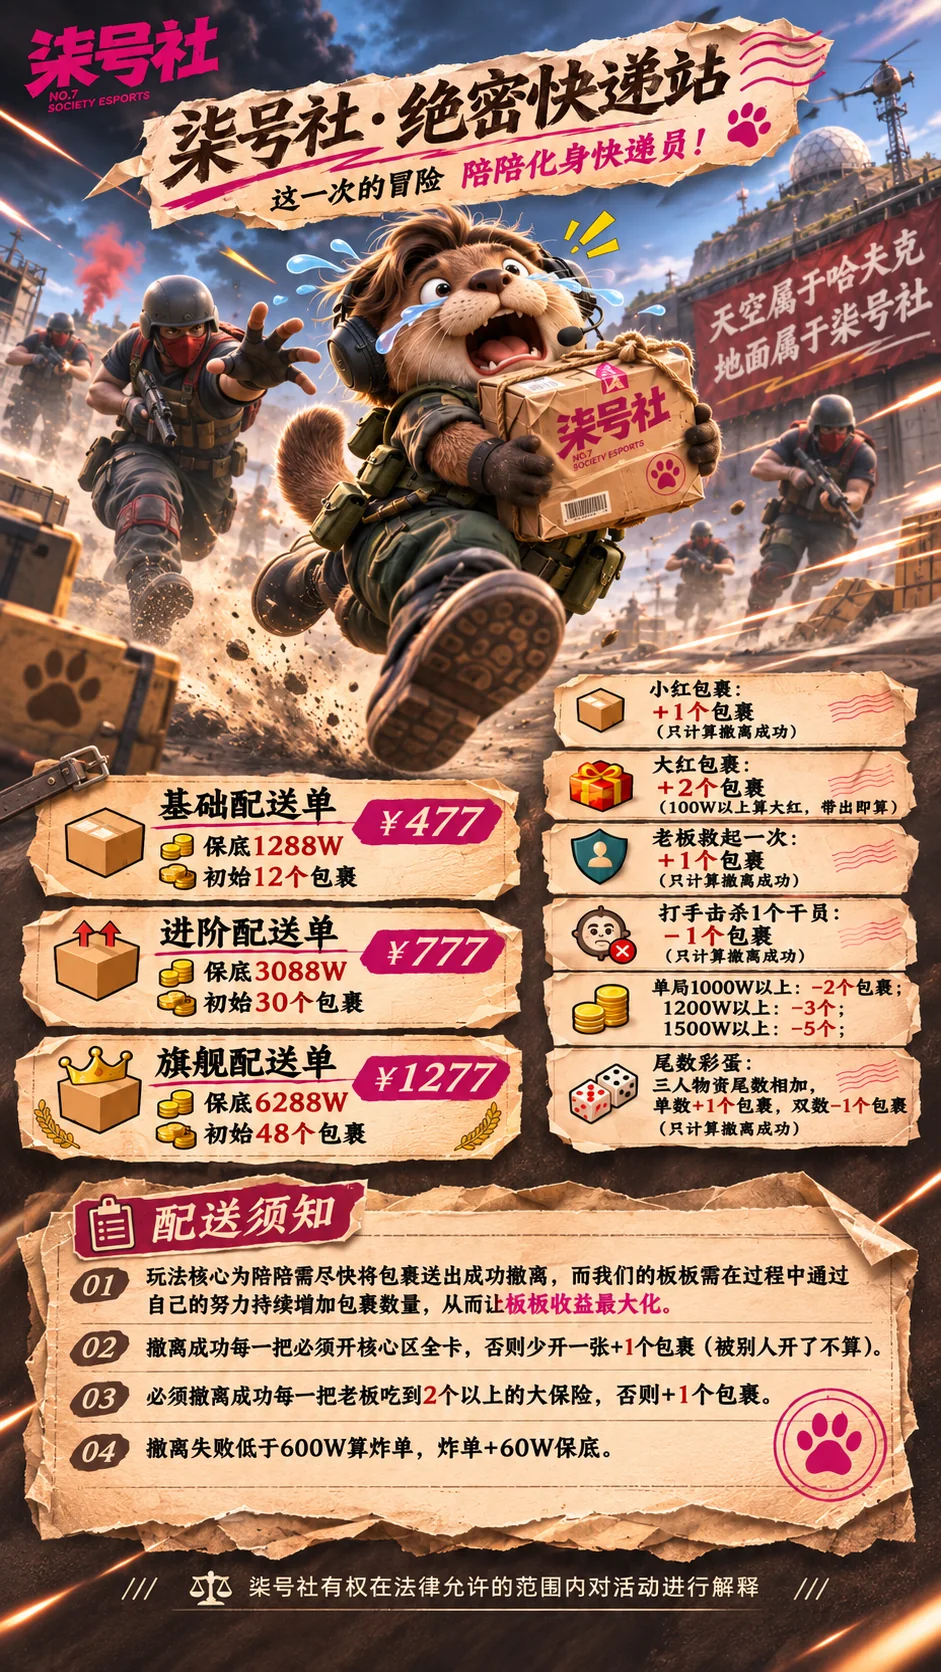
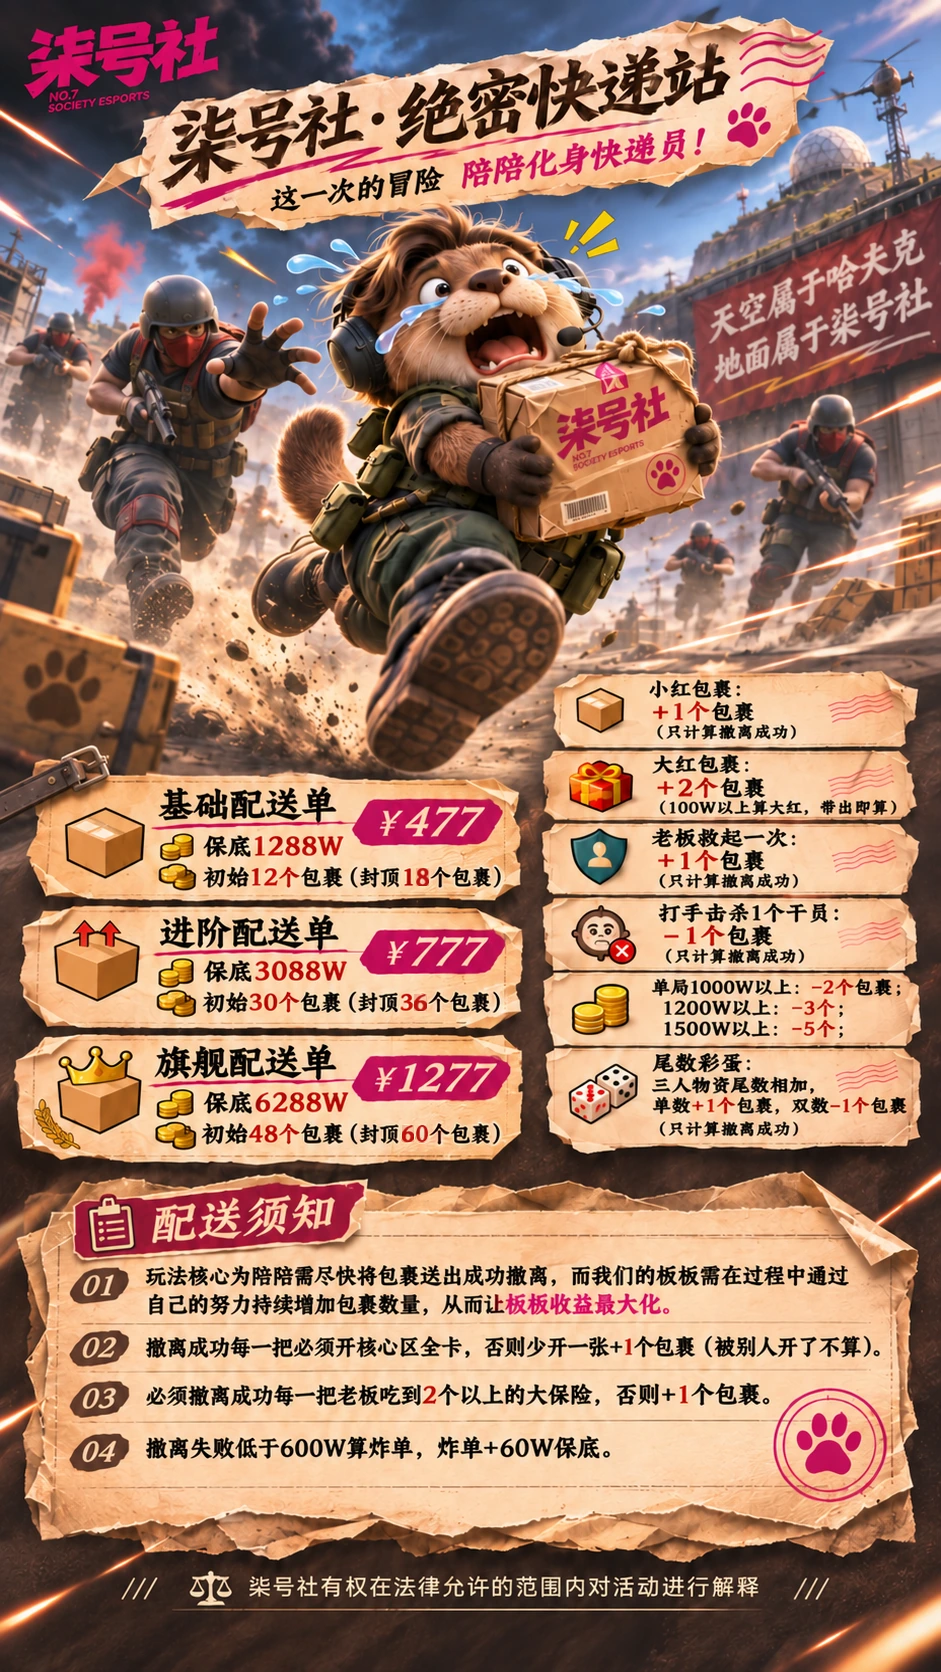
Sort fun menus by price, update delivery poster and add streamer badge

diff --git a/app.js b/app.js
@@ -2,22 +2,32 @@ const menus=[
 ['限时·夺取大红砖','限时单','limited-redbrick.webp','11.12—11.26 · 限定活动'],
 ['限时·超值体验单','限时单','limited-experience.webp','127R 起 · 每版本每周限一单'],
 ['基础护航与体验单','基础护航与体验单','basic.webp','基础体验 · 小时陪玩'],
-['百亿补贴','趣味单','billion.webp','477 / 577 包亿'],
-['千万以上','趣味单','ten-million.webp','677R · 保1000W'],
-['药药切克闹','趣味单','medicine.webp','止疼药挑战 · 477R 起'],
-['左轮一响，黄金万两','趣味单','revolver.webp','六发定乾坤 · 327R 起'],
-['黄金矿工','趣味单','gold-miner.webp','青铜 / 白银 / 黄金'],
-['神偷沙色','趣味单','sand.webp','巴别塔夺金行动'],
 ['唐王骰子','趣味单','dice.webp','骰子摇摇摇'],
-['真·一命通关','趣味单','one-life.webp','标准 / PRO MAX'],
+['左轮一响，黄金万两','趣味单','revolver.webp','六发定乾坤 · 327R 起'],
+['神偷沙色','趣味单','sand.webp','巴别塔夺金行动'],
+['百亿补贴','趣味单','billion.webp','477 / 577 包亿'],
+['药药切克闹','趣味单','medicine.webp','止疼药挑战 · 477R 起'],
+['黄金矿工','趣味单','gold-miner.webp','青铜 / 白银 / 黄金'],
 ['板板步步高升','趣味单','step.webp','逐级挑战'],
-['逃学威龙','趣味单','escape.webp','航天基地主题'],
 ['绝密快递站','趣味单','delivery.webp','绝密配送 · 包裹挑战'],
-['超级·小小巨人','趣味单','giant.webp','三档规格'],
+['千万以上','趣味单','ten-million.webp','677R · 保1000W'],
 ['航天黑洞','趣味单','blackhole.webp','非黑洞撤离'],
+['逃学威龙','趣味单','escape.webp','航天基地主题'],
+['超级·小小巨人','趣味单','giant.webp','三档规格'],
+['真·一命通关','趣味单','one-life.webp','标准 / PRO MAX'],
 ['S12赛季·微光 3×3价目表','3×3专区','s12-3x3.webp','33代做 / 33陪做']
 ];const $=id=>document.getElementById(id);let category='全部菜单',current=0,lastFocus=null,vipMode=false;const cats=['全部菜单','限时单','基础护航与体验单','趣味单','3×3专区'];const contact='微信公众号：柒号社电竞俱乐部\nKOOK：0000007';const img=m=>'./assets/'+m[2];
-function render(){ $('tabs').innerHTML=cats.map(c=>'<button class="tab '+(c===category?'active':'')+(c==='限时单'?' limited-tab':'')+'" data-cat="'+c+'" aria-pressed="'+(c===category)+'">'+(c==='限时单'?'🔥 ':'')+c+(c==='限时单'?' <small>HOT</small>':'')+'</button>').join('');$('grid').innerHTML=menus.map((m,i)=>({m,i})).filter(x=>category==='全部菜单'||x.m[1]===category).map(({m,i})=>'<button class="card '+(m[1]==='限时单'?'limited-card':'')+'" data-i="'+i+'" aria-label="查看'+m[0]+'完整菜单"><div class="card-pic"><img loading="lazy" src="'+img(m)+'" alt="'+m[0]+'正式海报"><div class="card-number"><b>'+(m[1]==='限时单'?'LIMITED TIME':'MISSION')+'</b> / '+String(i+1).padStart(2,'0')+'</div><div class="card-hover">展开完整菜单 <b>↗</b></div></div><div class="card-bottom"><div><small>'+m[1]+' · '+m[3]+'</small><h3>'+m[0]+'</h3></div><b>↗</b></div></button>').join('');document.querySelectorAll('[data-cat]').forEach(b=>b.onclick=()=>{category=b.dataset.cat;render()});document.querySelectorAll('[data-i]').forEach(b=>b.onclick=()=>openPoster(Number(b.dataset.i)))}function lock(v){document.body.classList.toggle('locked',v)}
+function render(){
+ $('tabs').innerHTML=cats.map(c=>'<button class="tab '+(c===category?'active':'')+(c==='限时单'?' limited-tab':'')+'" data-cat="'+c+'" aria-pressed="'+(c===category)+'">'+(c==='限时单'?'🔥 ':'')+c+(c==='限时单'?' <small>HOT</small>':'')+'</button>').join('');
+ const visible=menus.map((m,i)=>({m,i})).filter(x=>category==='全部菜单'||x.m[1]===category);
+ $('grid').innerHTML=visible.map(({m,i})=>{
+  const number=m[1]==='趣味单'?menus.slice(0,i+1).filter(x=>x[1]==='趣味单').length:i+1;
+  const streamer=m[2]==='delivery.webp';
+  return '<button class="card '+(m[1]==='限时单'?'limited-card ':'')+(streamer?'streamer-card':'')+'" data-i="'+i+'" aria-label="查看'+m[0]+'完整菜单"><div class="card-pic"><img loading="lazy" src="'+img(m)+'" alt="'+m[0]+'正式海报">'+(streamer?'<div class="streamer-badge">主播同款</div>':'')+'<div class="card-number"><b>'+(m[1]==='限时单'?'LIMITED TIME':'MISSION')+'</b> / '+String(number).padStart(2,'0')+'</div><div class="card-hover">展开完整菜单 <b>↗</b></div></div><div class="card-bottom"><div><small>'+m[1]+' · '+m[3]+'</small><h3>'+m[0]+'</h3></div><b>↗</b></div></button>';
+ }).join('');
+ document.querySelectorAll('[data-cat]').forEach(b=>b.onclick=()=>{category=b.dataset.cat;render()});
+ document.querySelectorAll('[data-i]').forEach(b=>b.onclick=()=>openPoster(Number(b.dataset.i)));
+}function lock(v){document.body.classList.toggle('locked',v)}
 function openRules(){lastFocus=document.activeElement;$('rulesModal').classList.remove('hidden');$('rulesContent').scrollTop=0;lock(true);$('rulesAccept').focus()}function closeRules(accepted){$('rulesModal').classList.add('hidden');lock(false);if(accepted)sessionStorage.setItem('no7_rules','read');lastFocus?.focus?.()}
 function openPoster(i){const alreadyOpen=!$('posterModal').classList.contains('hidden');if(!alreadyOpen)lastFocus=document.activeElement;vipMode=false;$('prev').hidden=false;$('next').hidden=false;current=(i+menus.length)%menus.length;const m=menus[current];$('posterCount').textContent='MISSION '+String(current+1).padStart(2,'0')+' / '+menus.length;$('posterTitle').textContent=m[0];$('posterImg').src=img(m);$('posterImg').alt='柒号社电竞 '+m[0]+' 正式菜单完整海报';$('posterModal').classList.remove('hidden');$('posterScroll').scrollTop=0;const panel=$('posterModal').querySelector('.poster-window');panel.classList.remove('exiting');if(!alreadyOpen){panel.style.animation='none';void panel.offsetWidth;panel.style.animation=''}else{const picture=$('posterImg');picture.style.animation='none';void picture.offsetWidth;picture.style.animation=''}lock(true);$('posterClose').focus()}function openSpecial(title,filename){lastFocus=document.activeElement;vipMode=true;$('prev').hidden=true;$('next').hidden=true;$('posterCount').textContent='MEMBERSHIP / BENEFITS';$('posterTitle').textContent=title;$('posterImg').src='./assets/'+filename;$('posterImg').alt='柒号社 '+title+' 完整海报';$('posterModal').classList.remove('hidden');$('posterScroll').scrollTop=0;lock(true);$('posterClose').focus()}const openVip=()=>openSpecial('试营业预存福利','vip.webp');const openNaming=()=>openSpecial('冠名定价','naming.webp');let closing=false;function closePoster(){if(closing)return;if(window.matchMedia('(prefers-reduced-motion: reduce)').matches){finishClose();return}closing=true;const panel=$('posterModal').querySelector('.poster-window');panel.classList.add('exiting');setTimeout(()=>{panel.classList.remove('exiting');finishClose();closing=false},280)}function finishClose(){$('posterModal').classList.add('hidden');lock(false);lastFocus?.focus?.()}
 async function copy(btn){const old=btn.innerHTML;try{await navigator.clipboard.writeText(contact);btn.textContent='已复制 ✓'}catch{btn.textContent='公众号：柒号社电竞俱乐部 / KOOK：0000007'}setTimeout(()=>btn.innerHTML=old,2600)}

diff --git a/refined.css b/refined.css
@@ -50,3 +50,8 @@ body{background:radial-gradient(ellipse 80% 40% at 50% 23%,#201923 0%,transparen
 .tabs .tab.limited-tab{border:1px solid #ff8066;background:linear-gradient(130deg,#4a1824,#27131d);color:#ffe3bb;box-shadow:inset 0 0 0 1px #f57c5525}.tabs .tab.limited-tab.active{background:linear-gradient(110deg,#ff7356,#ffd093);color:#35141b;border-color:#ffc78d}.limited-tab small{font-size:8px;margin-left:4px;background:#ff6b58;color:#fff;padding:2px 4px;border-radius:2px}.tabs .tab.limited-tab.active small{background:#56202a}
 .card.limited-card{border-color:#e87565;box-shadow:0 0 0 1px #d9614d33,0 12px 38px #ea4b4720}.limited-card .card-number{background:#ed553a;color:white}.limited-card .card-number b{color:#fff}
 @media(max-width:600px){.limited-feature{padding:20px 17px;flex-direction:column;align-items:stretch;gap:15px}.limited-feature:after{font-size:80px;right:-15px;top:-12px}.limited-copy strong{font-size:26px}.limited-cta{width:100%;text-align:center;padding:13px}}
+
+/* 主播同款标识：仅用于绝密快递站预览卡片 */
+.streamer-badge{position:absolute;top:18px;left:18px;z-index:3;padding:8px 13px;background:linear-gradient(110deg,#f05291,#ffc47d);color:#281019;border:1px solid #ffe4bd;font-size:12px;font-weight:950;letter-spacing:1px;box-shadow:0 5px 18px #0008;clip-path:polygon(0 0,92% 0,100% 28%,100% 100%,8% 100%,0 72%)}
+.streamer-card .card-number{top:58px}
+@media(max-width:600px){.streamer-badge{top:9px;left:9px;padding:6px 9px;font-size:10px}.streamer-card .card-number{top:40px}}
